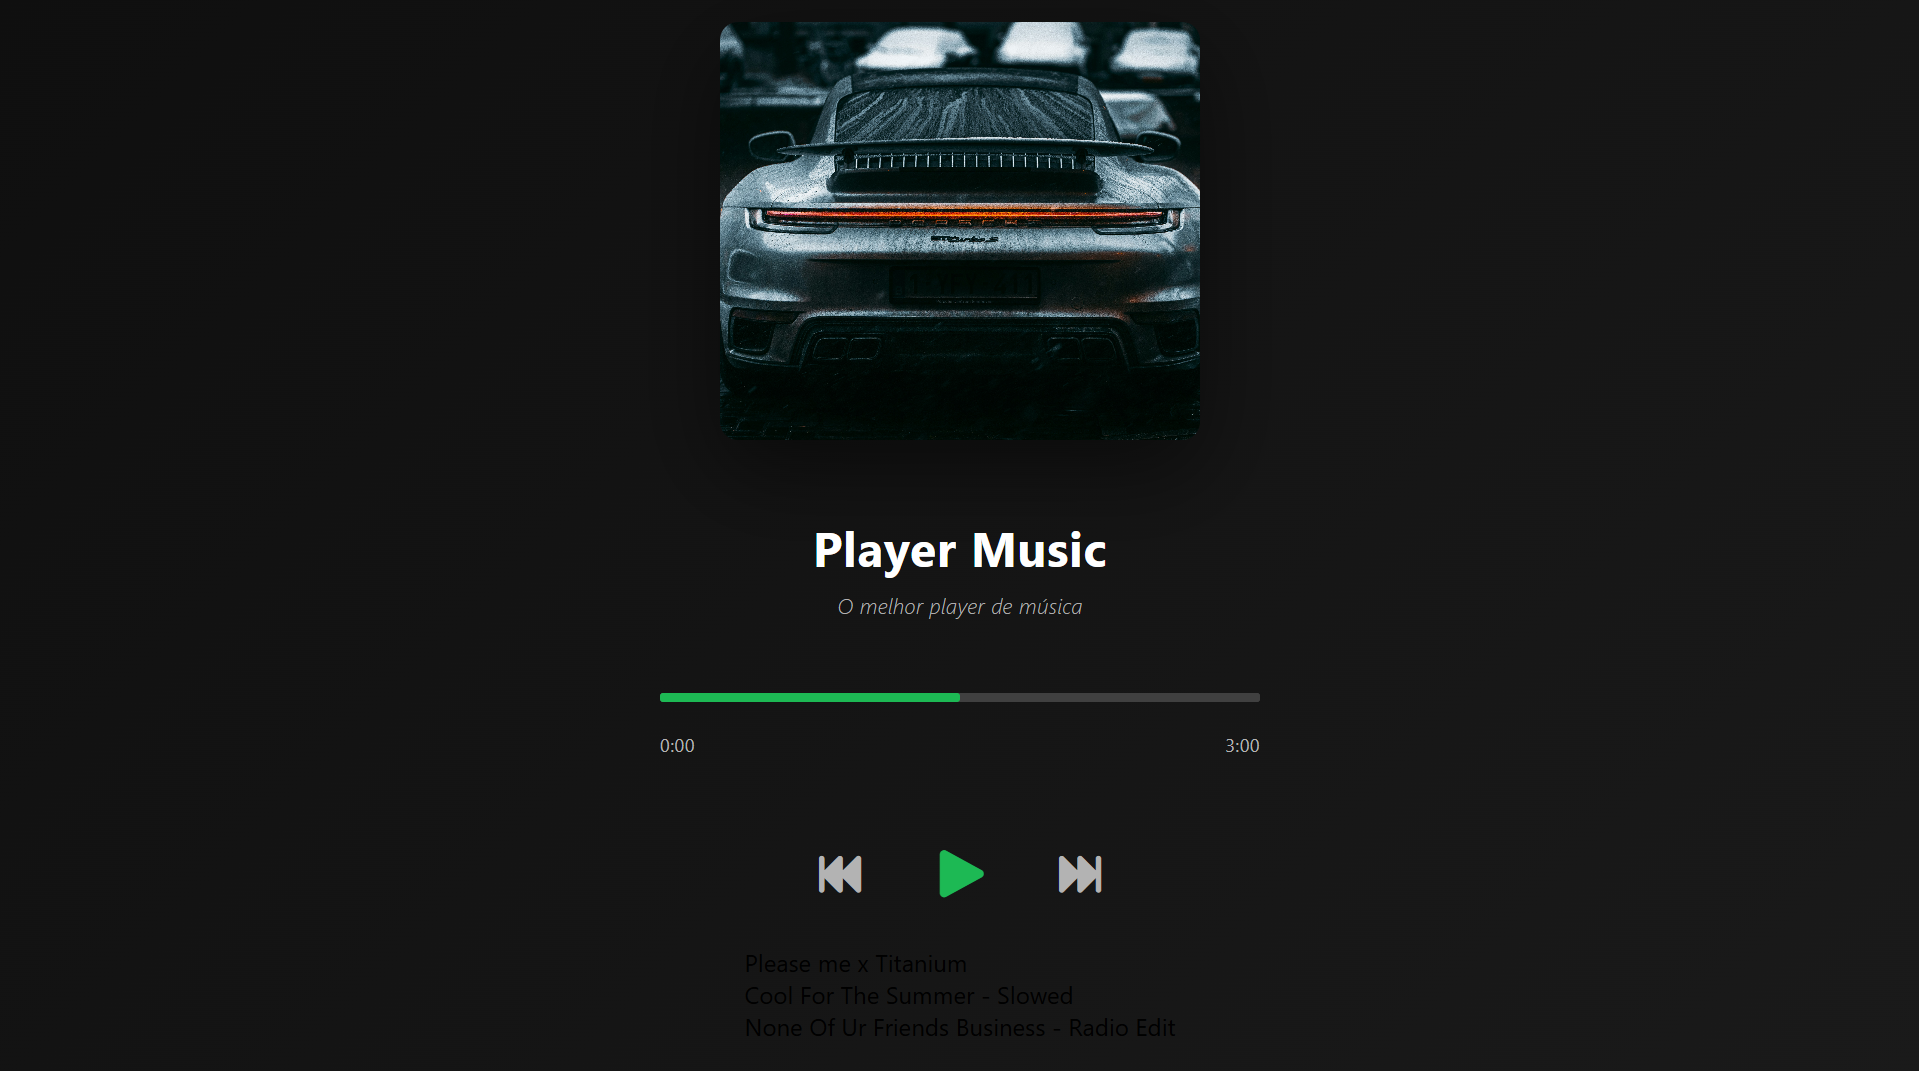
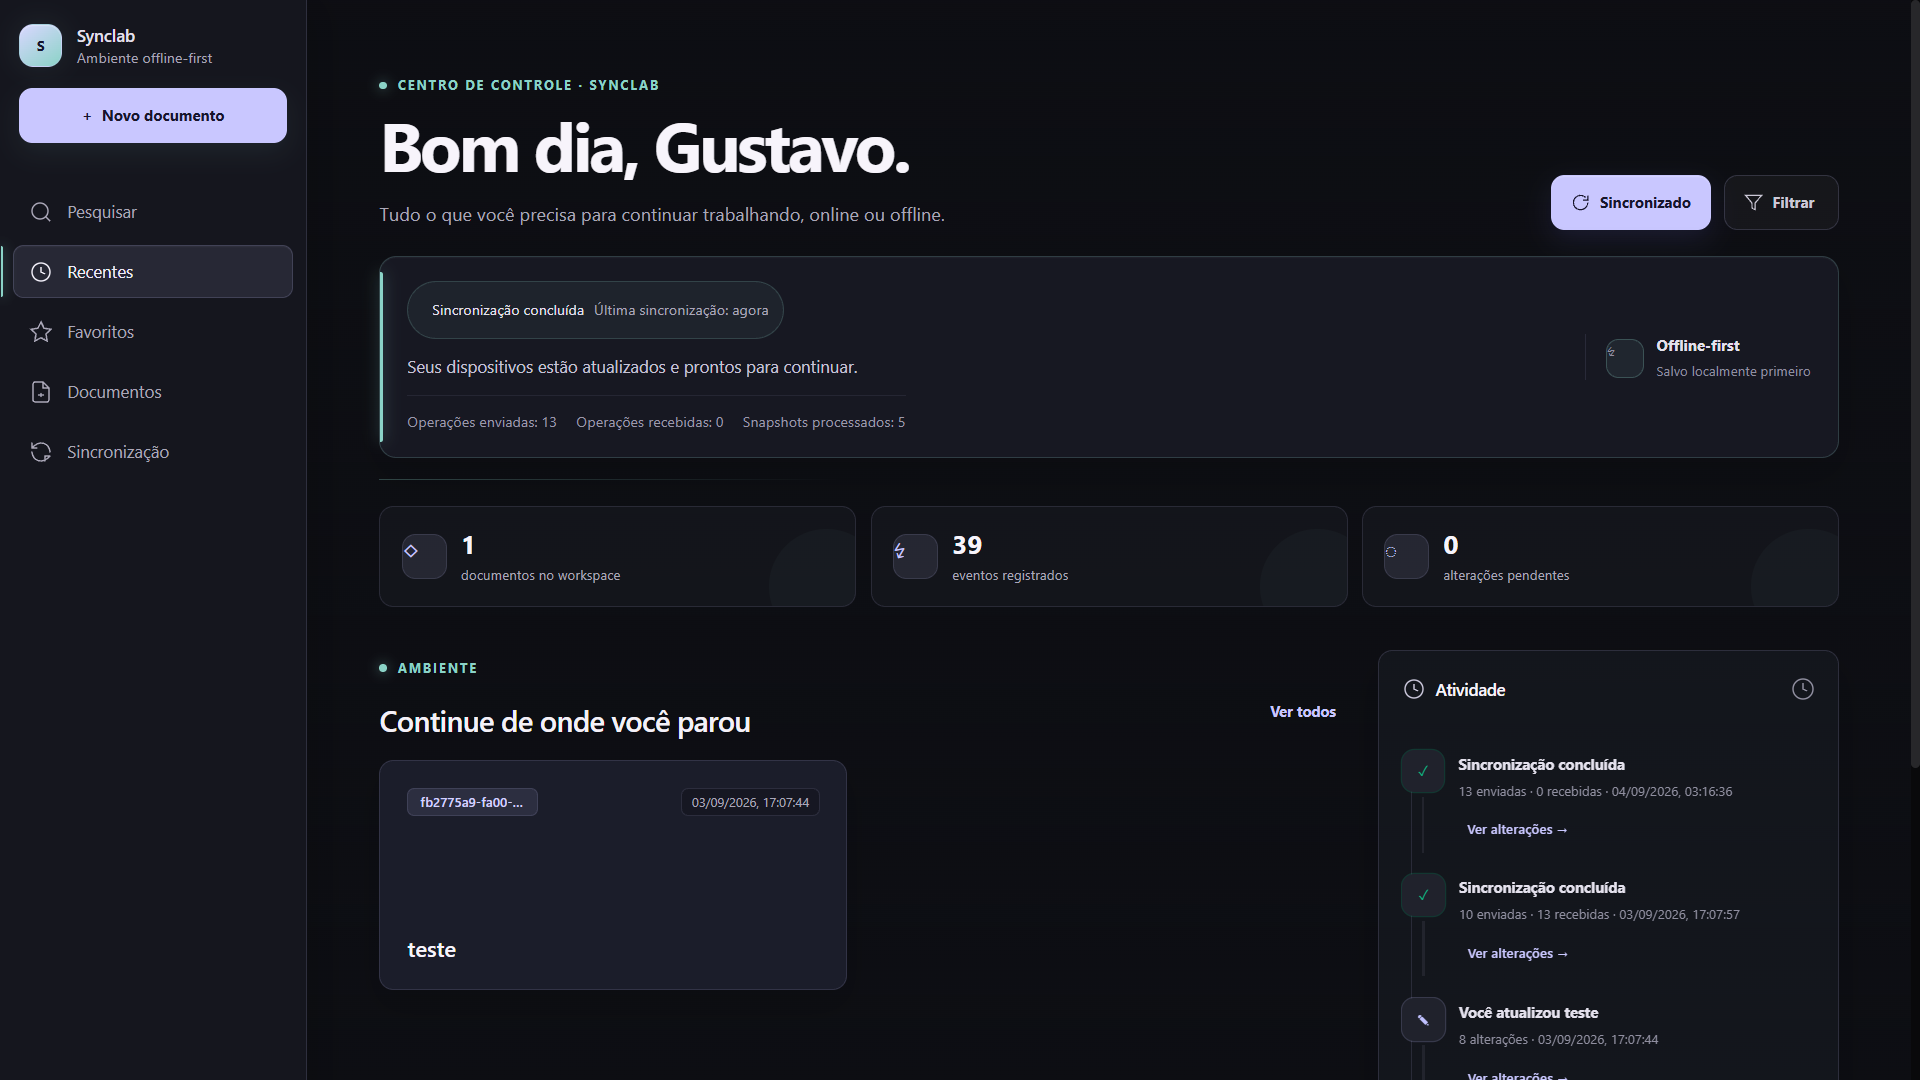
Adiciona Synclab aos projetos em destaque

diff --git a/src/data/projects.ts b/src/data/projects.ts
@@ -33,15 +33,15 @@ export const projects: Project[] = [
     codeUrl: '#',
   },
   {
-    title: 'AI Translator Platform',
-    tags: ['Solidity', 'Ethers.js', 'Web3'],
+    title: 'Synclab',
+    tags: ['TypeScript', 'React', 'SQLite', 'PostgreSQL'],
     description:
-      'Sistema inteligente de tradução criado com tecnologias modernas, integração de APIs e interfaces responsivas para proporcionar uma experiência fluida e intuitiva.',
-    image: '/projeto-2.png',
-    imageAlt: 'Preview do projeto AI Translator Platform',
-    demoUrl: 'https://queirozmoura.github.io/tradutor/',
+      'Sistema de sincronização offline-first desenvolvido para aplicações que precisam continuar funcionando mesmo sem conexão com a internet. Utiliza SQLite no navegador, PostgreSQL no servidor e mecanismos de CRDTs e Vector Clocks para controlar alterações, detectar conflitos e realizar a sincronização de dados de forma confiável.',
+    image: '/projeto-3.png',
+    imageAlt: 'Preview do projeto Synclab',
+    demoUrl: '#',
     demoTarget: '_blank',
-    codeUrl: '#',
+    codeUrl: 'https://github.com/QueirozMoura/synclab',
   },
   {
     title: 'Assistência Técnica',
